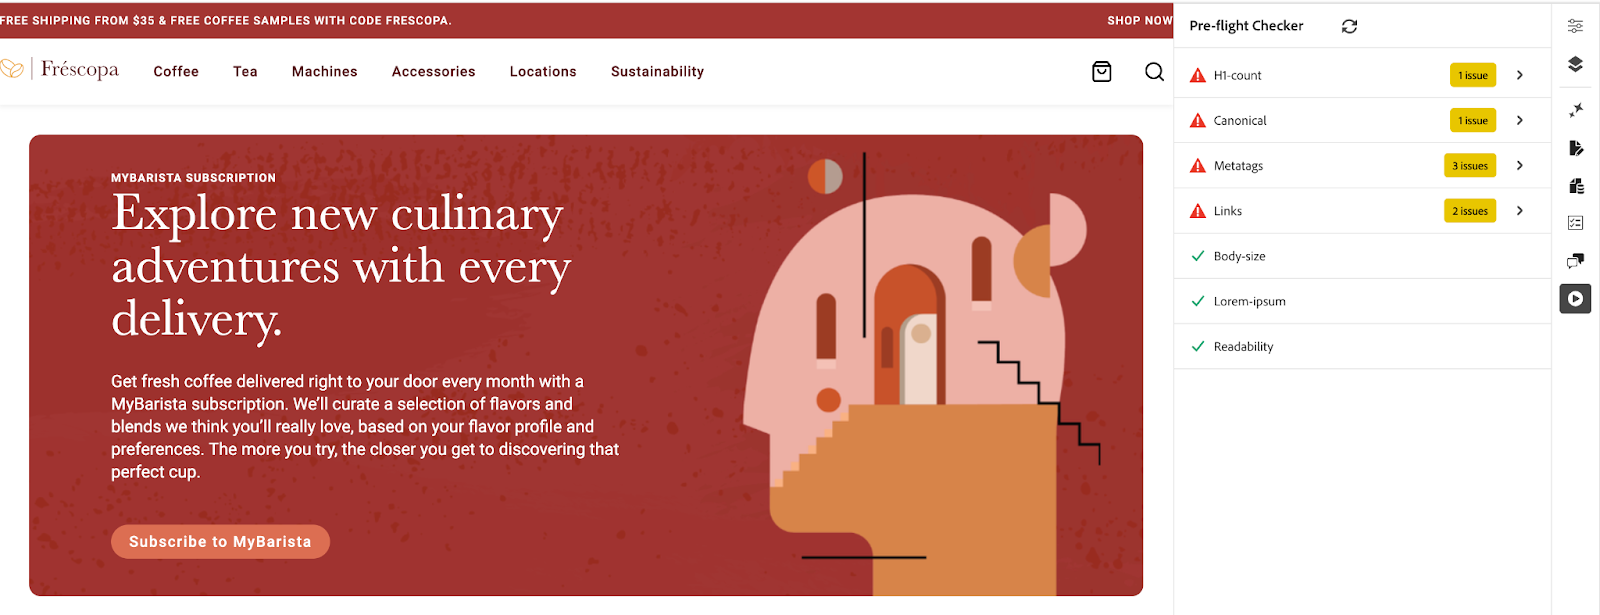
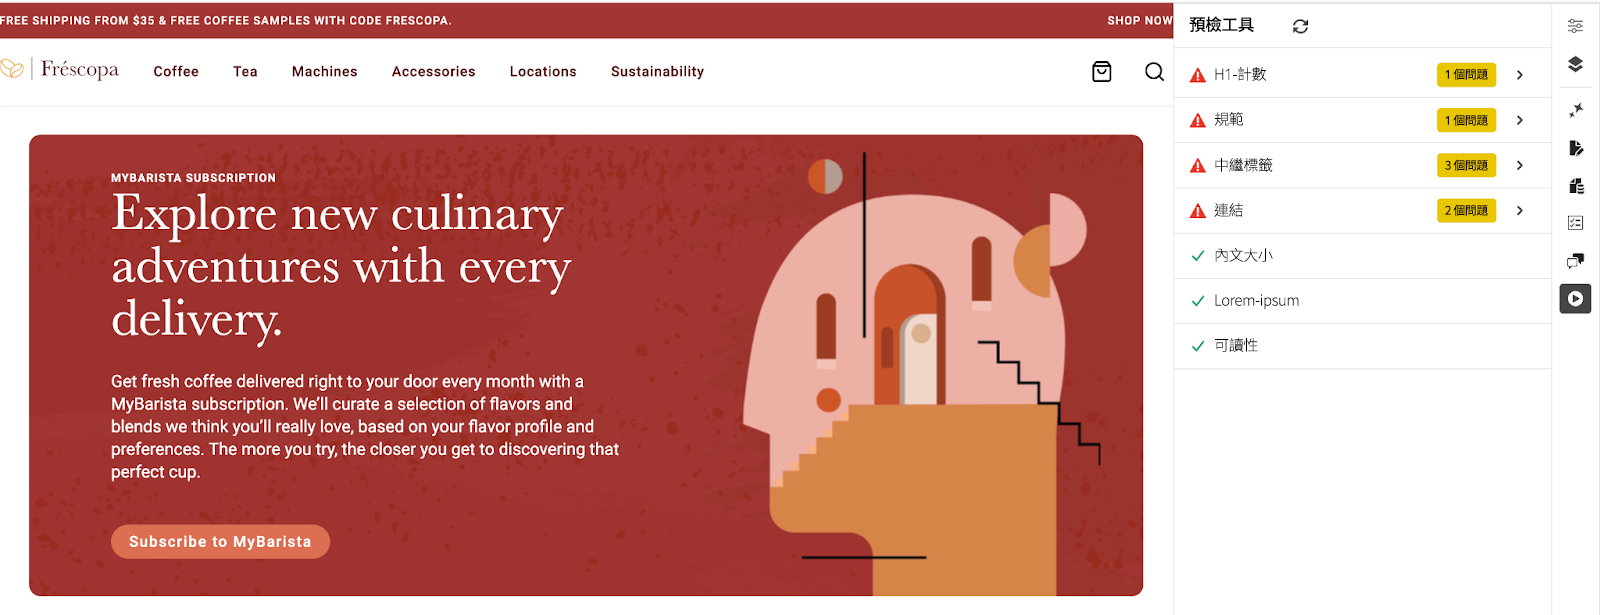
Updated by task 'AUTO_HANDOFF_1756889627385' Changes for core/source commit https://git.corp.adobe.com/AdobeDocs/experience-manager-sites-optimizer.en/commit/ba2e12c11a9e45650d6c946dc3c87fe42aa1aa0d

diff --git a/help/opportunity-types/preflight.md b/help/opportunity-types/preflight.md
@@ -1,10 +1,10 @@
 ---
-title: AEM Sites Optimizer — 預檢入門指南
-description: 瞭解預檢機會以及如何在AEM Sites Optimizer中設定預檢分析。
+title: AEM Sites Optimizer - 預檢上線指南
+description: 了解預檢機會，以及如何在 AEM Sites Optimizer 中設定預檢分析。
 source-git-commit: 0a6ddcdfd369253500067b31617facfb7f38b656
-workflow-type: tm+mt
+workflow-type: ht
 source-wordcount: '488'
-ht-degree: 6%
+ht-degree: 100%
 
 ---
 
@@ -13,7 +13,7 @@ ht-degree: 6%
 
 ![預檢機會](./assets/preflight/hero.png){align="center"}
 
-<span class="preview">AEM Sites Optimizer Preflight會分析頁面的技術和效能資料，並在發佈之前預測和偵測機會。 它使用產生式AI來建議最佳化。</span>
+<span class="preview">AEM Sites Optimizer 預檢功能會分析您頁面的技術和效能資料，並在頁面發佈之前預測和偵測機會。此功能使用生成式 AI 提供最佳化建議。</span>
 
 ## 機會
 
@@ -51,9 +51,9 @@ ht-degree: 6%
             <div class="card-content is-padded-small" style="display: flex; flex-direction: column; flex-grow: 1; justify-content: space-between;">
                 <div class="top-card-content">
                     <p class="headline is-size-6 has-text-weight-bold">
-                        <a href="../documentation/opportunities/invalid-or-missing-metadata.md" target="_blank" rel="referrer" title="規範">標準</a>
+                        <a href="../documentation/opportunities/invalid-or-missing-metadata.md" target="_blank" rel="referrer" title="規範">規範</a>
                     </p>
-                    <p class="is-size-6">瞭解標準機會，以及如何使用它來改善SEO並防止重複內容問題。</p>
+                    <p class="is-size-6">了解規範機會，以及如何使用此機會改善 SEO 並防止重複內容的問題。</p>
                 </div>
                 <a href="../documentation/opportunities/invalid-or-missing-metadata.md" target="_blank" rel="referrer" class="spectrum-Button spectrum-Button--outline spectrum-Button--primary spectrum-Button--sizeM" style="align-self: flex-start; margin-top: 1rem;">
                     <span class="spectrum-Button-label has-no-wrap has-text-weight-bold">了解更多</span>
@@ -74,9 +74,9 @@ ht-degree: 6%
             <div class="card-content is-padded-small" style="display: flex; flex-direction: column; flex-grow: 1; justify-content: space-between;">
                 <div class="top-card-content">
                     <p class="headline is-size-6 has-text-weight-bold">
-                        <a href="../documentation/opportunities/broken-internal-links.md" target="_blank" rel="referrer" title="損壞的內部連結">中斷的內部連結</a>
+                        <a href="../documentation/opportunities/broken-internal-links.md" target="_blank" rel="referrer" title="損壞的內部連結">損壞的內部連結</a>
                     </p>
-                    <p class="is-size-6">瞭解中斷的內部連結商機，以及如何使用它來識別和修正網站上中斷或問題的連結。</p>
+                    <p class="is-size-6">了解損壞的內部連結機會，以及如何使用此機會識別和修復網站上損壞或有問題的連結。</p>
                 </div>
                 <a href="../documentation/opportunities/broken-internal-links.md" target="_blank" rel="referrer" class="spectrum-Button spectrum-Button--outline spectrum-Button--primary spectrum-Button--sizeM" style="align-self: flex-start; margin-top: 1rem;">
                     <span class="spectrum-Button-label has-no-wrap has-text-weight-bold">了解更多</span>
@@ -88,8 +88,8 @@ ht-degree: 6%
         <div class="card" style="height: 100%; display: flex; flex-direction: column; height: 100%;">
             <div class="card-image">
                 <figure class="image x-is-16by9">
-                    <a href="../documentation/opportunities/invalid-or-missing-metadata.md" title="中繼資料" target="_blank" rel="referrer">
-                        <img class="is-bordered-r-small" src="../assets/common/card-code.png" alt="中繼資料"
+                    <a href="../documentation/opportunities/invalid-or-missing-metadata.md" title="中繼資料標記" target="_blank" rel="referrer">
+                        <img class="is-bordered-r-small" src="../assets/common/card-code.png" alt="中繼資料標記"
                              style="width: 100%; aspect-ratio: 16 / 9; object-fit: cover; overflow: hidden; display: block; margin: auto;">
                     </a>
                 </figure>
@@ -97,9 +97,9 @@ ht-degree: 6%
             <div class="card-content is-padded-small" style="display: flex; flex-direction: column; flex-grow: 1; justify-content: space-between;">
                 <div class="top-card-content">
                     <p class="headline is-size-6 has-text-weight-bold">
-                        <a href="../documentation/opportunities/invalid-or-missing-metadata.md" target="_blank" rel="referrer" title="中繼資料">中繼資料</a>
+                        <a href="../documentation/opportunities/invalid-or-missing-metadata.md" target="_blank" rel="referrer" title="中繼資料標記">中繼資料標記</a>
                     </p>
-                    <p class="is-size-6">瞭解中繼資料商機，以及如何使用它來最佳化您的頁面中繼資料，以提升SEO效能。</p>
+                    <p class="is-size-6">了解中繼資料標記機會，以及如何使用此機會將頁面的中繼資料最佳化，獲得更好的 SEO 效能。</p>
                 </div>
                 <a href="../documentation/opportunities/invalid-or-missing-metadata.md" target="_blank" rel="referrer" class="spectrum-Button spectrum-Button--outline spectrum-Button--primary spectrum-Button--sizeM" style="align-self: flex-start; margin-top: 1rem;">
                     <span class="spectrum-Button-label has-no-wrap has-text-weight-bold">了解更多</span>
@@ -111,8 +111,8 @@ ht-degree: 6%
         <div class="card" style="height: 100%; display: flex; flex-direction: column; height: 100%;">
             <div class="card-image">
                 <figure class="image x-is-16by9">
-                    <a href="../documentation/opportunities/invalid-or-missing-metadata.md" title="H1計數" target="_blank" rel="referrer">
-                        <img class="is-bordered-r-small" src="../assets/common/card-code.png" alt="H1計數"
+                    <a href="../documentation/opportunities/invalid-or-missing-metadata.md" title="H1 計數" target="_blank" rel="referrer">
+                        <img class="is-bordered-r-small" src="../assets/common/card-code.png" alt="H1 計數"
                              style="width: 100%; aspect-ratio: 16 / 9; object-fit: cover; overflow: hidden; display: block; margin: auto;">
                     </a>
                 </figure>
@@ -120,9 +120,9 @@ ht-degree: 6%
             <div class="card-content is-padded-small" style="display: flex; flex-direction: column; flex-grow: 1; justify-content: space-between;">
                 <div class="top-card-content">
                     <p class="headline is-size-6 has-text-weight-bold">
-                        <a href="../documentation/opportunities/invalid-or-missing-metadata.md" target="_blank" rel="referrer" title="H1計數">H1計數</a>
+                        <a href="../documentation/opportunities/invalid-or-missing-metadata.md" target="_blank" rel="referrer" title="H1 計數">H1 計數</a>
                     </p>
-                    <p class="is-size-6">瞭解H1計數機會，以及如何使用它來確保適當的標題結構和SEO最佳化。</p>
+                    <p class="is-size-6">了解 H1 計數機會，以及如何使用此機會確保合適的標題結構和 SEO 最佳化。</p>
                 </div>
                 <a href="../documentation/opportunities/invalid-or-missing-metadata.md" target="_blank" rel="referrer" class="spectrum-Button spectrum-Button--outline spectrum-Button--primary spectrum-Button--sizeM" style="align-self: flex-start; margin-top: 1rem;">
                     <span class="spectrum-Button-label has-no-wrap has-text-weight-bold">了解更多</span>
@@ -145,7 +145,7 @@ ht-degree: 6%
                     <p class="headline is-size-6 has-text-weight-bold">
                         <a href="../documentation/opportunities/accessibility-issues.md" target="_blank" rel="referrer" title="協助工具">協助工具</a>
                     </p>
-                    <p class="is-size-6">瞭解無障礙機會以及如何使用它來確保您的網站可供所有使用者存取。</p>
+                    <p class="is-size-6">了解協助工具機會，以及如何使用此機會確保所有使用者都能夠存取您的網站。</p>
                 </div>
                 <a href="../documentation/opportunities/accessibility-issues.md" target="_blank" rel="referrer" class="spectrum-Button spectrum-Button--outline spectrum-Button--primary spectrum-Button--sizeM" style="align-self: flex-start; margin-top: 1rem;">
                     <span class="spectrum-Button-label has-no-wrap has-text-weight-bold">了解更多</span>
@@ -161,18 +161,18 @@ ht-degree: 6%
 
 ### 通用編輯器設定
 
-1. 從URL前往Extension Manager： https://experience.adobe.com/#/@org/aem/extension-manager/universal-editor
-2. 選取AEM Sites Optimizer Preflight擴充功能並請求啟用
-3. AEM團隊將為您的組織啟用此擴充功能
-4. 完成後，在通用編輯器中開啟頁面，例如：https://author-p12345-e123456.adobeaemcloud.com/ui#/@org/aem/universal-editor/canvas/author-p12345-e123456.adobeaemcloud.com/content/site/subscription.html
+1. 從以下 URL 前往 Extension Manager：https://experience.adobe.com/#/@org/aem/extension-manager/universal-editor
+2. 選取 AEM Sites Optimizer 預檢擴充功能並要求啟用
+3. AEM 團隊會為您的組織啟用此擴充功能
+4. 此動作完成後，請在通用編輯器中開啟一個頁面，例如：https://author-p12345-e123456.adobeaemcloud.com/ui#/@org/aem/universal-editor/canvas/author-p12345-e123456.adobeaemcloud.com/content/site/subscription.html
 5. 預檢擴充功能將顯示在側邊欄中
-6. 按一下側邊欄中的「預檢擴充功能」 ，將會開始目前頁面的「預檢稽核」
+6. 在側邊欄按一下「預檢擴充功能」，會針對當前頁面開始進行預檢稽核
 
-### 檔案式預覽設定
+### 文件型預覽設定
 
-#### 步驟1：使用預檢按鈕啟用Sidekick
+#### 步驟 1：使用預檢按鈕啟用 Sidekick
 
-將下列設定新增至GitHub存放庫中的`/tools/sidekick/config.json`：
+將以下設定新增至您 GitHub 存放庫中的 `/tools/sidekick/config.json`：
 
 ```json
 {
@@ -189,9 +189,9 @@ ht-degree: 6%
 }
 ```
 
-#### 步驟2：建立Sidekick整合指令碼
+#### 步驟 2：建立 Sidekick 整合指令碼
 
-使用下列內容建立`/tools/sidekick/aem-sites-optimizer-preflight.js`：
+使用以下內容建立 `/tools/sidekick/aem-sites-optimizer-preflight.js`：
 
 ```javascript
 (function () {
@@ -238,9 +238,9 @@ ht-degree: 6%
 }());
 ```
 
-#### 步驟3：更新指令碼檔案
+#### 步驟 3：更新指令碼檔案
 
-將下列匯入陳述式新增至預覽URL之`loadLazy()`中的`/scripts/scripts.js`函式，如下所示：
+將以下匯入語句新增至預覽 URL 之 `/scripts/scripts.js` 的 `loadLazy()` 函數內，如下所示：
 
 ```javascript
 if (window.location.href.includes('.aem.page')) {
@@ -248,37 +248,37 @@ if (window.location.href.includes('.aem.page')) {
 }
 ```
 
-現在，Sidekick中應該會顯示「預檢」按鈕。
+現在，應該就會在 Sidekick 中看到「預檢」按鈕了。
 
-#### 步驟4：執行稽核
+#### 步驟 4：執行稽核
 
-開啟已稽核頁面的預覽URL (*.aem.page)。 按一下Sidekick中的「預檢」按鈕。
+開啟受稽核頁面的預覽 URL (*.aem.page)。在 Sidekick 按一下「預檢」按鈕。
 
-### AEM雲端服務設定
+### AEM Cloud Service 設定
 
-您可以使用書籤小程式選項在AEM Cloud Service頁面編輯器和沙箱環境中測試預檢。
+您可以使用書籤小程式選項，在 AEM Cloud Service 頁面編輯器和沙箱環境上測試預檢。
 
 <!-- Drag the button below to your Bookmarks Bar to get started. -->
 
-按&#x200B;**Ctrl+Shift+B** (Windows)或&#x200B;**Cmd+Shift+B** (Mac)以顯示書籤列。 在書籤列上按一下滑鼠右鍵，然後選取「新頁面」或「新增書籤」。 在位址列位中，複製下面的程式碼。
+按下 **Ctrl+Shift+B** (Windows) 或 **Cmd+Shift+B** (Mac) 顯示您的書籤列。在書籤列上按一下右鍵，然後選取「新頁面」或「新增書籤」。在位址欄位中複製以下程式碼。
 
 <!-- **Drag this link to your Bookmarks Bar:**
 
 <a href="javascript:(function(){const script=document.createElement('script');script.src='https://experience.adobe.com/solutions/OneAdobe-aem-sites-optimizer-preflight-mfe/static-assets/resources/sidekick/client.js?source=bookmarklet&target-source=aem-cloud-service';document.head.appendChild(script);})();">Preflight</a> -->
 
-**複製此程式碼並建立新書籤：**
+**複製此程式碼並建立一個新書籤：**
 
 ```
 javascript:(function(){const script=document.createElement('script');script.src='https://experience.adobe.com/solutions/OneAdobe-aem-sites-optimizer-preflight-mfe/static-assets/resources/sidekick/client.js?source=bookmarklet&target-source=aem-cloud-service';document.head.appendChild(script);})();
 ```
 
-新增書籤小程式後，請開啟稽核頁面的預覽URL (*.aem.page)。 按一下Preflight書籤以開始Preflight稽核。
+新增書籤小程式後，開啟受稽核頁面的預覽 URL (*.aem.page)。按一下「預檢」書籤，開始預檢稽核。
 
-## 最佳做法
+## 最佳實務
 
-使用「預檢」時，請注意下列事項：
+使用預檢時，請留意以下事項：
 
-* 發佈之前，請對所有預備/預覽頁面執行預檢稽核。
-* 先解決高影響力的問題（連結損毀、缺少H1標籤、不安全的連結）。
-* 啟用受保護中繼環境的驗證。
-* 檢閱並實作中繼標籤建議，以提升SEO效能。
+* 在發佈之前，對所有中繼/預覽頁面執行預檢稽核。
+* 首先解決影響較大的問題 (損壞的連結、缺少 H1 標記、不安全的連結)。
+* 啟用受保護中繼環境的驗證功能。
+* 審閱並實施中繼標記建議，以獲得更好的 SEO 效能。

diff --git a/help/opportunity-types/overview.md b/help/opportunity-types/overview.md
@@ -2,9 +2,9 @@
 title: Sites Optimizer 機會類型
 description: 了解 Sites Optimizer 中的關鍵機會類型，以及其如何協助您提高網站的績效。
 source-git-commit: 469370cfcb19e25bf8da5f7f9e08b8b0da52dbb9
-workflow-type: tm+mt
+workflow-type: ht
 source-wordcount: '343'
-ht-degree: 80%
+ht-degree: 100%
 
 ---
 
@@ -22,9 +22,9 @@ AEM Sites Optimizer 會提供寶貴的分析和建議，以協助您提高網站
 * 網站健康情況
 * 預檢
 
-每個類別均強調一個增強網站的不同方法。某個類別可能會增加訪客互動。另一個則可以提高可搜尋性。其他則著重於加強安全性或維護網站穩定性。 「預檢」可協助您在發佈頁面之前分析和最佳化頁面。
+每個類別均強調一個增強網站的不同方法。某個類別可能會增加訪客互動。另一個則可以提高可搜尋性。其他則將焦點放在增強安全性或維持網站穩定性。預檢能協助您在頁面發佈之前加以分析和最佳化。
 
-使用這些機會可以改進使用者體驗、吸引合適的客群，並確保您的網站安全可靠。增強參與度和流量獲取可促進互動和可見度，而強大的安全性狀況和網站健康有助於確保信任和穩定性。 預檢分析可確保在內容上線前將其最佳化。 請探索下面的連結，以查看按類別組織的機會，並找到改進網站的方法。
+使用這些機會可以改善使用者體驗、吸引合適的客群，並確保您的網站安全可靠。提升參與度和流量贏取可促進互動和提高可見度，而強大的安全態勢和網站健康情況則有助於確保信任和穩定性。預檢分析可確保您的內容在上線之前已進行最佳化。請探索下面的連結，以查看按類別組織的機會，並找到改進網站的方法。
 
 ## 機會類型
 
@@ -199,7 +199,7 @@ AEM Sites Optimizer 會提供寶貴的分析和建議，以協助您提高網站
                     <p class="headline is-size-6 has-text-weight-bold">
                         <a href="./preflight.md" target="_blank" rel="referrer" title="預檢">預檢</a>
                     </p>
-                    <p class="is-size-6">瞭解預檢分析以及如何在Sites Optimizer中設定預檢機會。</p>
+                    <p class="is-size-6">了解預檢分析，以及如何在 Sites Optimizer 中設定預檢機會。</p>
                 </div>
                 <a href="./preflight.md" target="_blank" rel="referrer" class="spectrum-Button spectrum-Button--outline spectrum-Button--primary spectrum-Button--sizeM" style="align-self: flex-start; margin-top: 1rem;">
                     <span class="spectrum-Button-label has-no-wrap has-text-weight-bold">了解更多</span>
